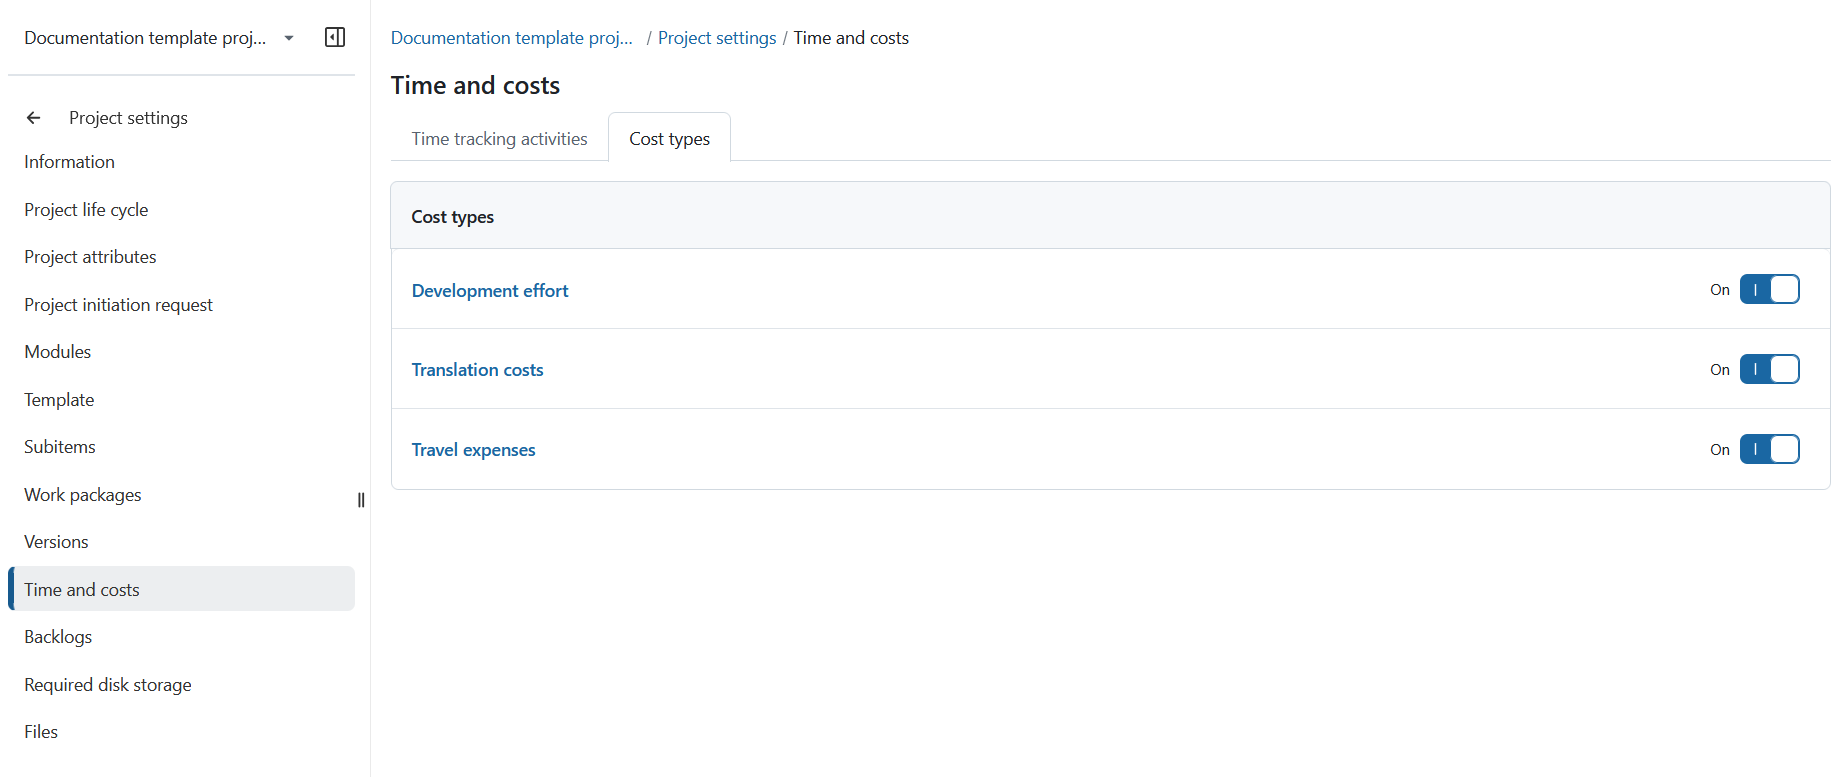
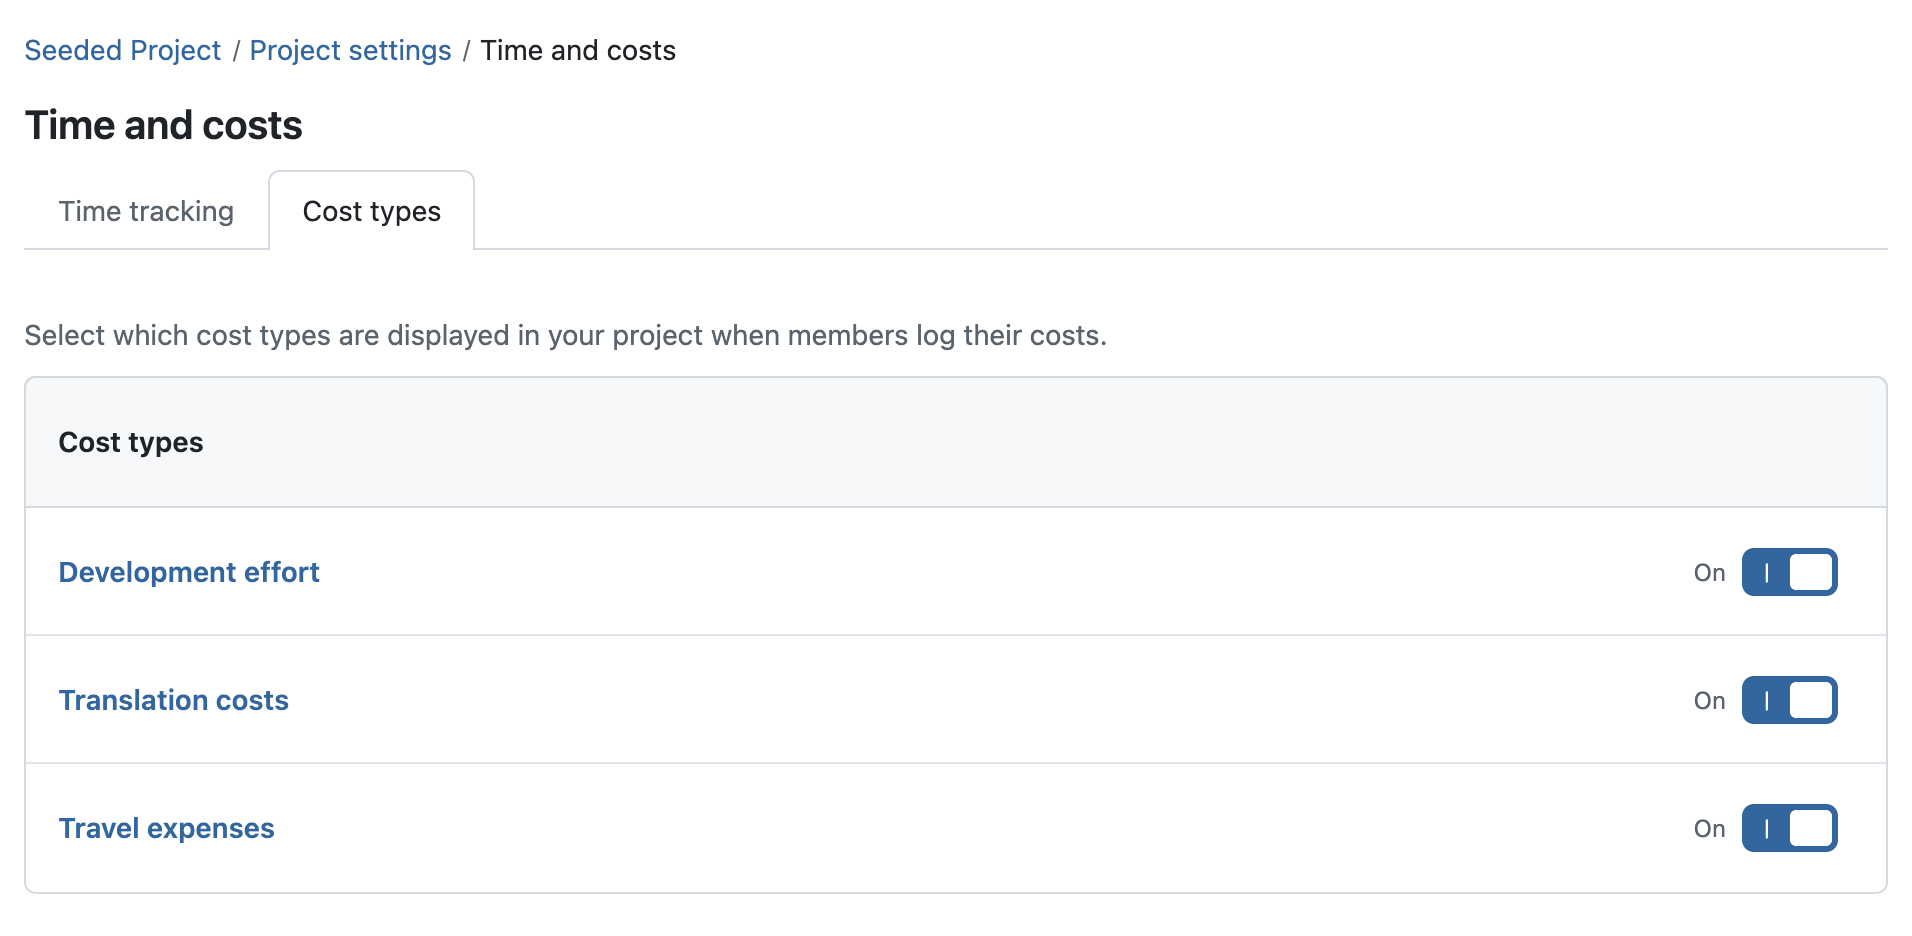
Update docs for new time tracking setting

diff --git a/docs/user-guide/projects/project-settings/time-and-costs/README.md b/docs/user-guide/projects/project-settings/time-and-costs/README.md
@@ -19,9 +19,8 @@ Before they can be enabled in a project, time tracking activities and cost types
 
 To enable time tracking activities for a project:
 
-1. Navigate to **Project settings → Time and costs → Time tracking activities**.
-2. Select the activities that should be available for time tracking in the project.
-3. Click **Save**.
+1. Navigate to **Project settings → Time and costs → Time tracking**.
+2. Turn on the toggle next to each activity that should be available for time tracking in the project.
 
 ![Activate time tracking activities under the Time and costs section in Project settings](openproject_user_guide_project_settings_time_and_costs.png)
 
